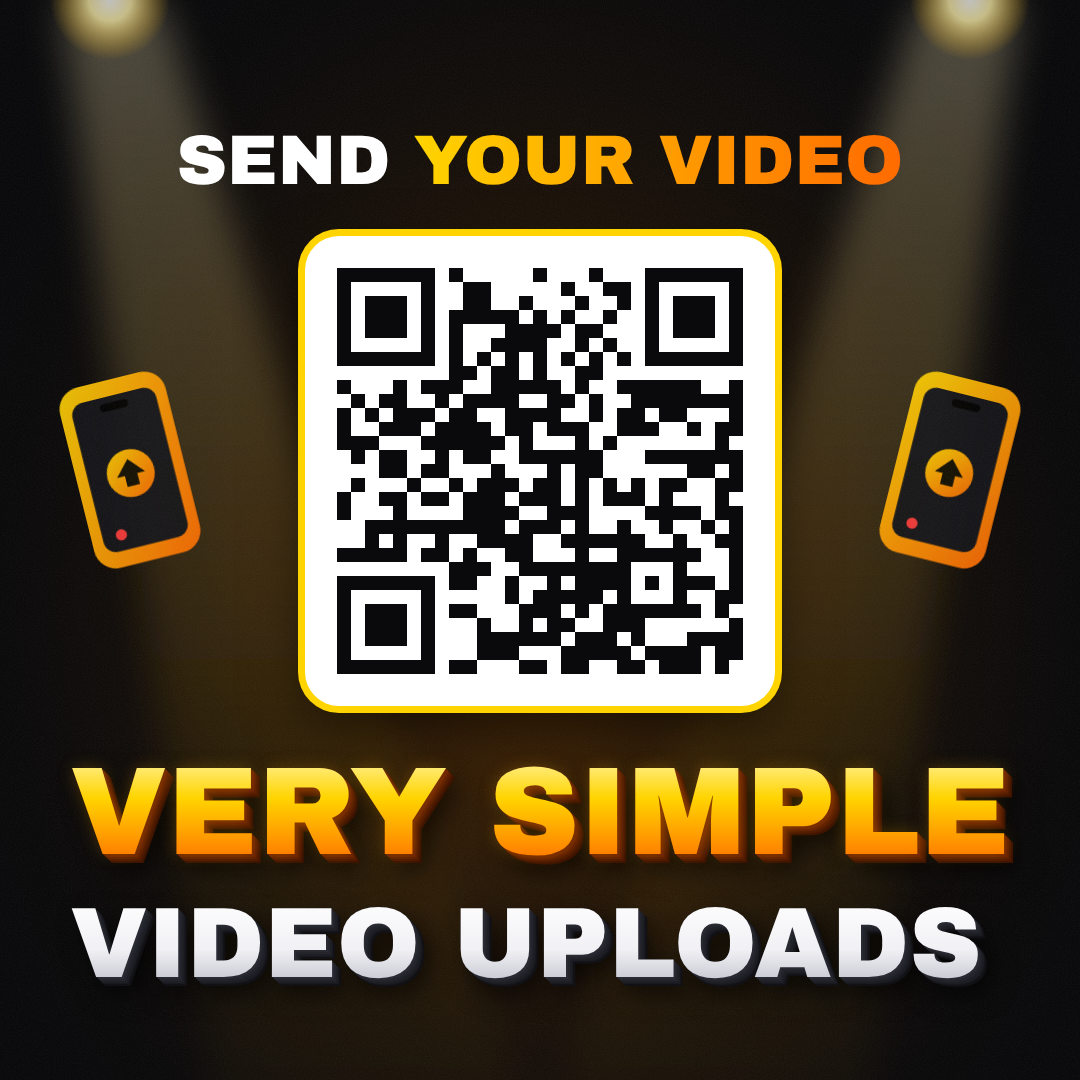
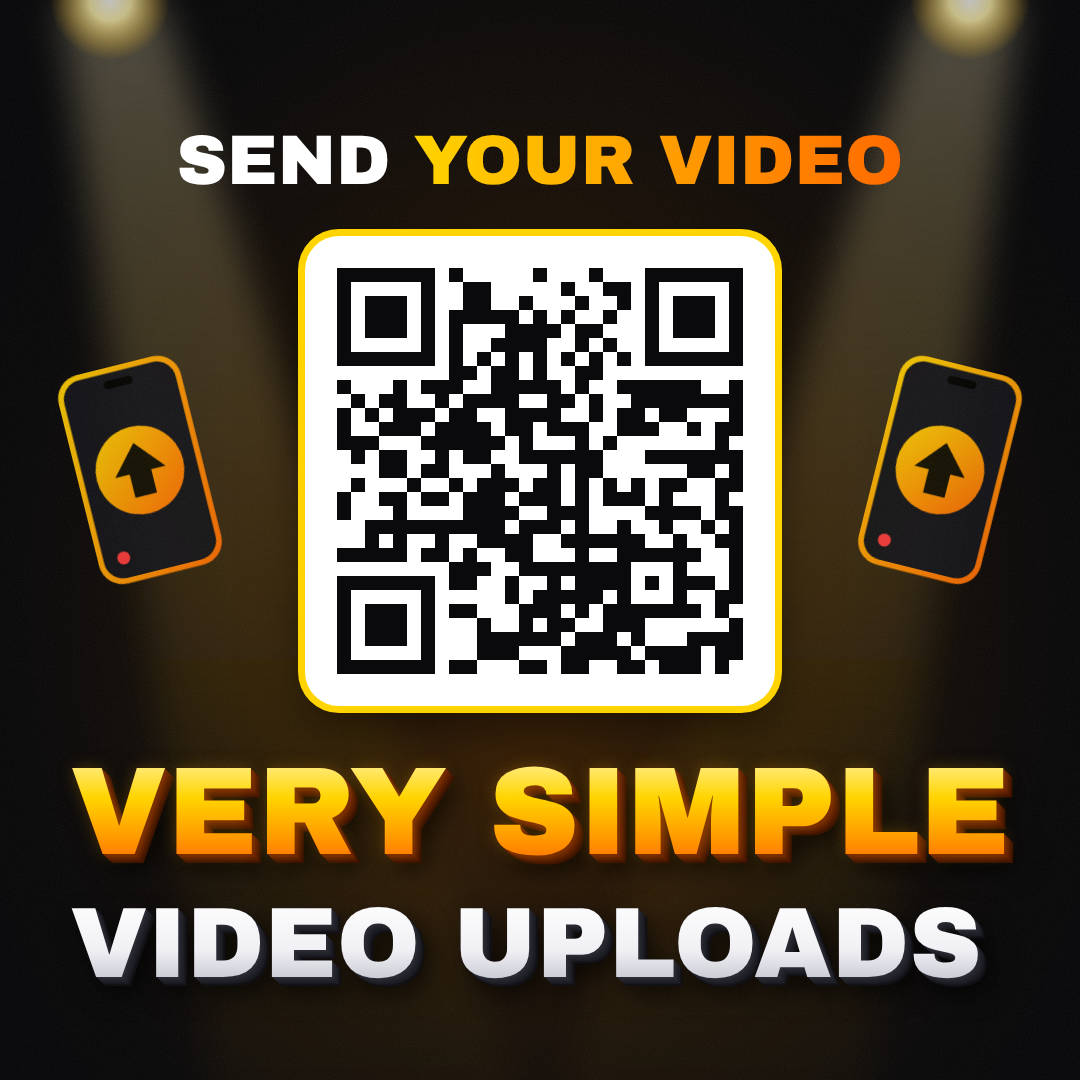
Bigger phones with thinner outlines and bigger arrows
Claude-Session: https://claude.ai/code/session_0146kwBht9eGHacCjsKb31b6

Changed region(s): [[0.7944, 0.3056, 0.9472, 0.55], [0.0306, 0.3056, 0.2139, 0.55]]

diff --git a/flymusicman/site/index.html b/flymusicman/site/index.html
@@ -12,12 +12,12 @@
   <meta property="og:site_name" content="FLYfx">
   <meta property="og:title" content="Very Simple Video Uploads">
   <meta property="og:description" content="Send your videos straight from your phone. No sign in. No account. No hassle.">
-  <meta property="og:image" content="https://flyfx.net/build/flymusicman/og-image.jpg?v=5">
+  <meta property="og:image" content="https://flyfx.net/build/flymusicman/og-image.jpg?v=6">
   <meta property="og:image:width" content="1080">
   <meta property="og:image:height" content="1350">
   <meta property="og:image:alt" content="Very Simple Video Uploads. No sign in. No account. No hassle.">
   <meta name="twitter:card" content="summary_large_image">
-  <meta name="twitter:image" content="https://flyfx.net/build/flymusicman/og-image.jpg?v=5">
+  <meta name="twitter:image" content="https://flyfx.net/build/flymusicman/og-image.jpg?v=6">
   <style>
     html, body { margin: 0; height: 100%; background: #09090c; }
     iframe { display: block; width: 100%; height: 100%; border: 0; }
